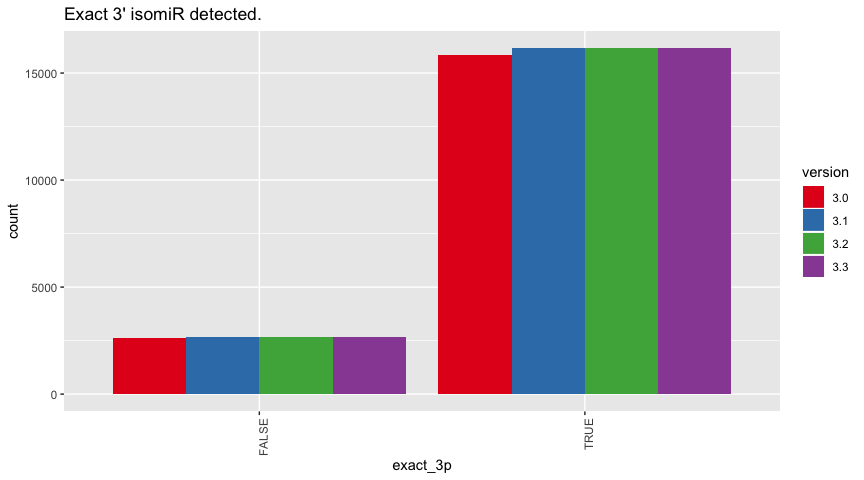
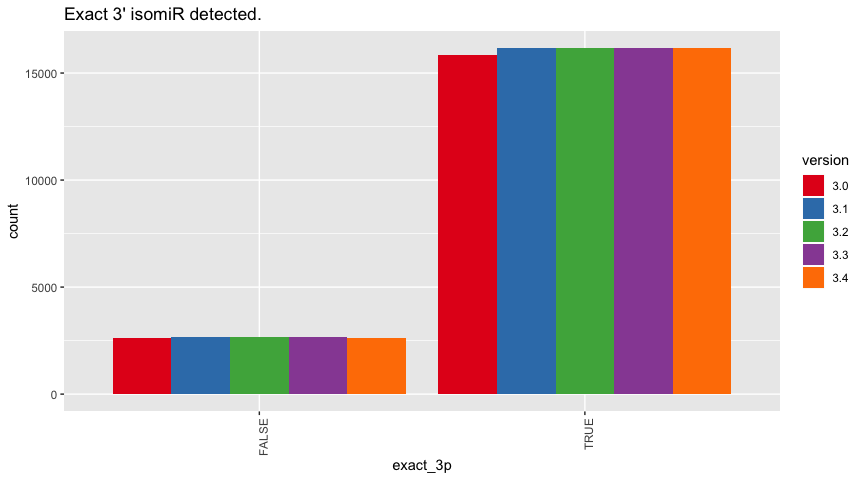
update figures

diff --git a/validator/stats_isomirs.md b/validator/stats_isomirs.md
@@ -13,6 +13,9 @@ parsing = . %>% separate(name, c("fasta", "mature", "position", "trimming",
     t3), nchar(t3), 0), num_3p = ifelse(grepl("[atcg]", t3), -1 * nchar(t3), 
     num_3p))
 
+data34 <- read.table("sim.21.hsa.3.4.mirna", header = T, stringsAsFactors = F) %>% 
+    parsing()
+
 data33 <- read.table("sim.21.hsa.3.3.mirna", header = T, stringsAsFactors = F) %>% 
     parsing()
 
@@ -26,7 +29,8 @@ data3 <- read.table("sim.21.hsa.3.0.mirna", header = T, stringsAsFactors = F) %>
     parsing()
 
 data <- bind_rows(data3 %>% mutate(version = "3.0"), data31 %>% mutate(version = "3.1"), 
-    data32 %>% mutate(version = "3.2"), data33 %>% mutate(version = "3.3"))
+    data32 %>% mutate(version = "3.2"), data33 %>% mutate(version = "3.3"), 
+    data34 %>% mutate(version = "3.4"))
 ```
 
 # Overview
